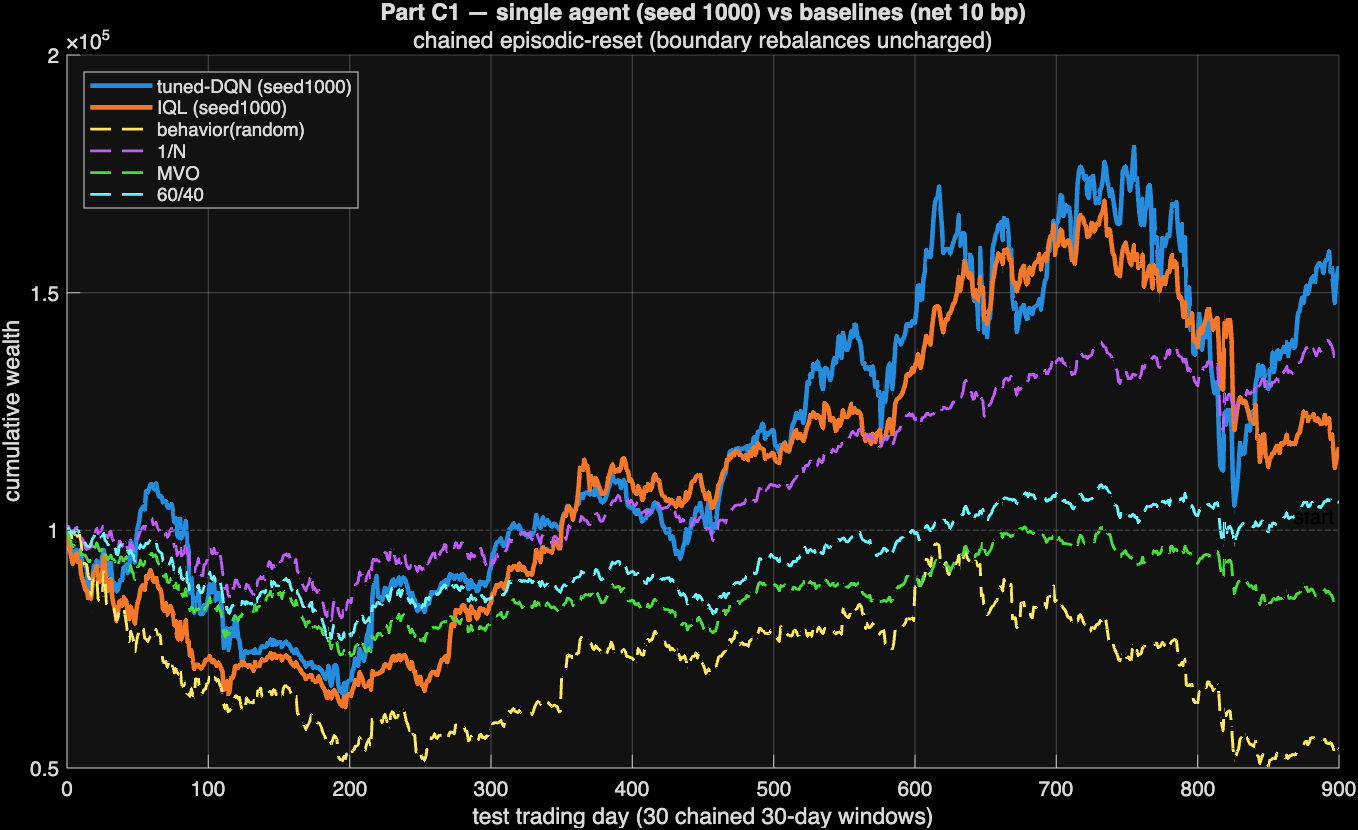
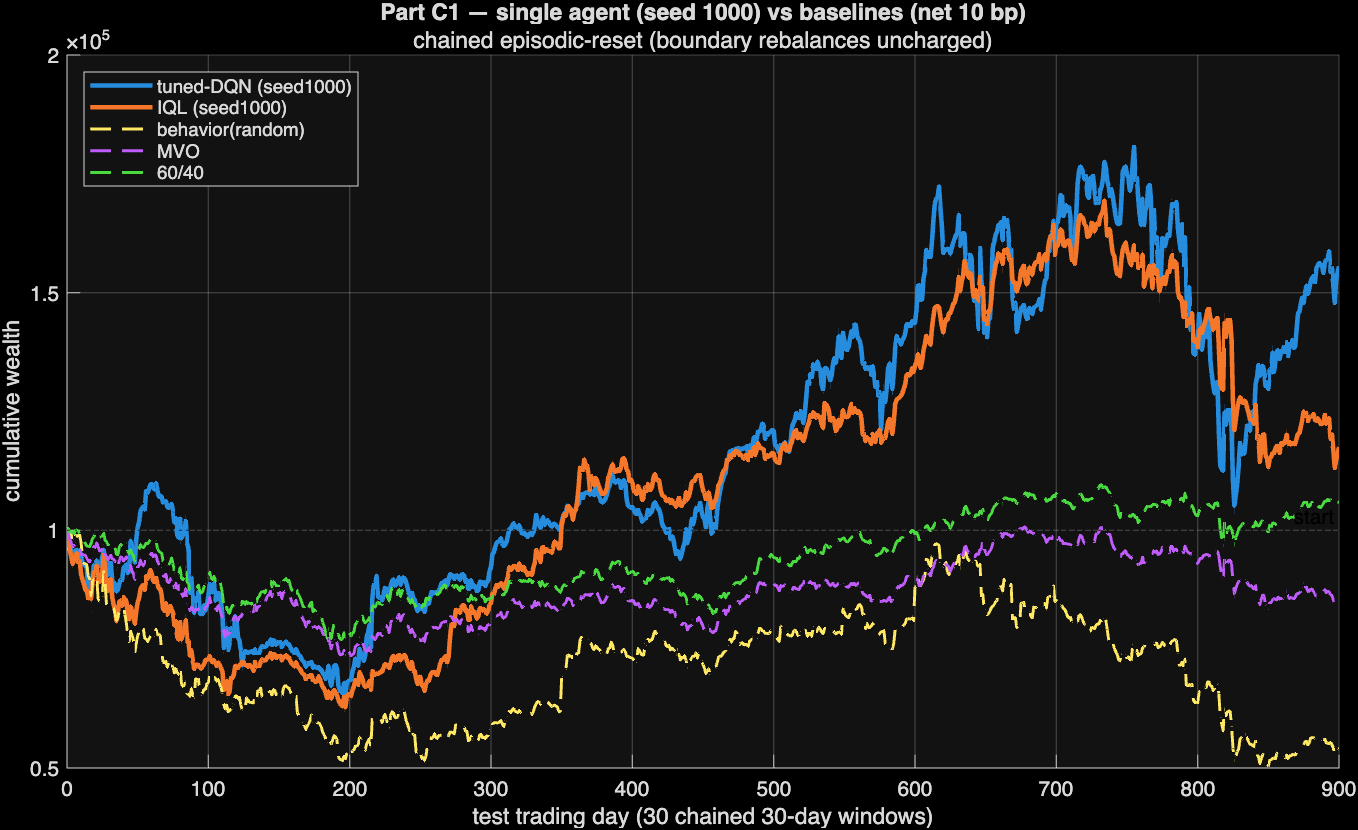
drop 1/N baseline

diff --git a/src/eval_compare.m b/src/eval_compare.m
@@ -181,7 +181,6 @@ end
 % shared baseline roster (seed-independent) — appears in both C1 and C2 for reference
 baseRoster = {
   'behavior(random)', @(o) Wf(:, randi(nA))
-  '1/N',              @(o) basis.w1N
   'MVO',              @(o) basis.wMVO
   '60/40',            @(o) basis.w6040
 };
@@ -247,7 +246,7 @@ end
 function plotEquity(curves, nm, basis, ttl, savePath)
     f = figure('Name',ttl,'Position',[100 100 1050 560]); hold on; grid on;
     n = numel(curves); cols = lines(n);
-    baseSet = {'behavior(random)','1/N','MVO','60/40'};
+    baseSet = {'behavior(random)','MVO','60/40'};
     for s = 1:n
         isB = any(strcmp(nm(s), baseSet));  lw = 2.2; ls = '-'; if isB; lw = 1.4; ls = '--'; end
         plot(0:numel(curves{s})-1, curves{s}, ls, 'Color',cols(s,:), 'LineWidth',lw, 'DisplayName',nm(s));

diff --git a/src/utils/buildEvalBasis.m b/src/utils/buildEvalBasis.m
@@ -47,12 +47,11 @@ function basis = buildEvalBasis(trainPrices, trainMacro, trainingRange, numActio
     isGold = ismember(upN, ["GLD","IAU"]);
     isEq   = ~isBond & ~isGold;
     w6040  = zeros(nAssets,1);  w6040(isEq) = 0.60/nnz(isEq);  w6040(isBond) = 0.40/nnz(isBond);
-    w1N    = ones(nAssets,1)/nAssets;
 
     % --- pack ---
     basis = struct();
     basis.W_frontier = W_frontier;  basis.wMVO = wMVO;
-    basis.w6040 = w6040;            basis.w1N  = w1N;
+    basis.w6040 = w6040;
     basis.macroMean = macroMean;    basis.macroStd = macroStd;
     basis.R_full = R_full;          basis.M_test_z = M_test_z;
     basis.assetNames = {assetNames};basis.nAssets = nAssets;

diff --git a/src/week10_actions_compare.m b/src/week10_actions_compare.m
@@ -27,7 +27,7 @@ for i = 1:3
 end
 fprintf("\nmean total return: 15-act %+.1f%% | 20-act %+.1f%%\n", 100*mean(r15), 100*mean(r20));
 fprintf("mean effective actions used: 15-act %.1f/15 | 20-act %.1f/20\n", mean(e15), mean(e20));
-fprintf("(baselines: 60/40 +5.9%% | 1/N +37.4%%)\n");
+fprintf("(baseline: 60/40 +5.9%%)\n");
 
 
 function [tr, effA] = evalAgent(FA, nEp, step, H, R_full, M_test_z, iw, gw, c)

diff --git a/docs/REPORT.md b/docs/REPORT.md
@@ -365,9 +365,9 @@ it hides path risk.
 > (`src/utils/buildEvalBasis.m:60`) — a **+2% hurdle over 30 days**.
 
 **Baselines.** *behavior-random* (the uniform-random frontier policy that generated the offline
-data — beating it is the canonical offline-RL success test); **1/N** equal-weight (DeMiguel,
-Garlappi & Uppal 2009, "hard to beat"); **MVO** = max-Sharpe tangency **fit on train, not
-re-estimated on test**; **60/40** daily constant mix.
+data — beating it is the canonical offline-RL success test); **MVO** = max-Sharpe tangency
+**fit on train, not re-estimated on test**; **60/40** daily constant mix, the passive reference
+this report is measured against.
 
 ### C1 — single shipped agent (seed 1000)
 
@@ -375,19 +375,20 @@ re-estimated on test**; **60/40** daily constant mix.
 |---|---|---|---|---|---|---|---|
 | tuned-DQN (seed 1000) | 0.38 | **[−0.56, 1.61]** | 0.07 | +55.5% | 18.6% | 91567 | 15 |
 | IQL (seed 1000) | 0.19 | **[−0.66, 1.42]** | 0.03 | +17.5% | 13.3% | 90931 | 12 |
-| **1/N** | **0.62** | [−0.30, 1.71] | 0.15 | +37.4% | 10.3% | **95855** | 19 |
-| 60/40 | 0.13 | [−0.93, 1.23] | 0.03 | +5.9% | **8.7%** | 95302 | 12 |
+| 60/40 | 0.13 | [−0.93, 1.23] | 0.03 | +5.9% | **8.7%** | **95302** | 12 |
 | MVO (train-fit tangency) | −0.32 | [−1.22, 0.90] | 0.00 | −14.0% | 9.3% | 93661 | 8 |
 | behavior-random | −0.64 | [−1.56, 0.56] | 0.00 | −45.9% | 17.0% | 86345 | 11 |
 
 ![Part C1 single-seed equity](../experiments/figures/eval_partC1_single_equity.png)
 
-**Read it correctly.** The tuned-DQN's headline **+55.5% total return is *not* an edge**: on the
+**Read it correctly.** The tuned-DQN's headline **+55.5% total return is *not* an edge**. On the
 like-for-like metric — chained Sharpe, which prices return and risk on the *same* path — it
-scores **0.38, below naïve 1/N's 0.62**, so it is *less* risk-efficient, not more. (Its
-per-window MaxDD P90 is also the table's worst, 18.6% vs 1/N's 10.3%; that is the other column
-scope, but it points the same way.)
-Its CI includes 0; its DSR (0.07) survives no multiple-testing haircut. **Seed 1000 is the
+scores 0.38 against 60/40's 0.13, but that gap is **not resolvable**: its CI [−0.56, 1.61]
+contains 60/40's point estimate as comfortably as it contains zero, so the two are
+statistically indistinguishable on this sample. What the nominal lead *does* cost is legible:
+its per-window MaxDD P90 is the table's worst (18.6% vs 60/40's 8.7%) and its Term P10 the
+worst of any non-random row — i.e. it is paid for in risk, in a column where the CI is not
+doing the arguing. Its DSR (0.07) survives no multiple-testing haircut. **Seed 1000 is the
 default first seed used a-priori throughout the project, and it also happens to be the strongest
 single path on this test set** — so it must not carry the argument. The load-bearing comparison
 is the unbiased ensemble below.
@@ -398,15 +399,15 @@ is the unbiased ensemble below.
 |---|---|---|---|---|---|---|
 | tuned-DQN (N=10) | 0.12 | [−0.68, 1.37] | 0.02 | +12.4% | 15.4% | 91931 |
 | IQL (N=10) | −0.31 | [−0.99, 0.90] | 0.00 | −24.8% | 16.0% | 92132 |
-| **1/N** | **0.62** | [−0.30, 1.71] | 0.15 | +37.4% | 10.3% | **95855** |
-| 60/40 | 0.13 | [−0.93, 1.23] | 0.03 | +5.9% | **8.7%** | 95302 |
+| 60/40 | 0.13 | [−0.93, 1.23] | 0.03 | +5.9% | **8.7%** | **95302** |
 | MVO (train-fit tangency) | −0.32 | [−1.22, 0.90] | 0.00 | −14.0% | 9.3% | 93661 |
 | behavior-random | −0.64 | [−1.56, 0.56] | 0.00 | −45.9% | 17.0% | 86345 |
 
 ![Part C2 ensemble equity](../experiments/figures/eval_partC2_ensemble_equity.png)
 
-The ensemble removes the single-seed luck: **tuned-DQN ties 60/40 (0.12 vs 0.13) and loses to
-1/N**; IQL's ensemble is negative on this path. The ensemble's total return is also **sensitive
+The ensemble removes the single-seed luck: **tuned-DQN ties 60/40 (0.12 vs 0.13)** — the
+0.38 → 0.12 drop between C1 and C2 is the seed-selection premium, measured — and IQL's ensemble
+is negative on this path. The ensemble's total return is also **sensitive
 to N** (an earlier sweep gave materially different, even negative, totals at N=5 and N=20), so
 "+12.4%" is one pick, not a robust number.
 
@@ -565,8 +566,6 @@ are intentionally superseded by the `eval_part*` figures.)
   on Neural Networks* 12(4): 875–889. (See also Moody, Wu, Liao & Saffell, 1998, *J. Forecasting*.)
 - Kahneman, D., & Tversky, A. (1979). Prospect Theory: An Analysis of Decision under Risk.
   *Econometrica* 47(2): 263–291.
-- DeMiguel, V., Garlappi, L., & Uppal, R. (2009). Optimal Versus Naive Diversification: How
-  Inefficient Is the 1/N Portfolio Strategy? *Review of Financial Studies* 22(5): 1915–1953.
 - Bailey, D. H., & López de Prado, M. (2014). The Deflated Sharpe Ratio: Correcting for Selection
   Bias, Backtest Overfitting, and Non-Normality. *Journal of Portfolio Management* 40(5): 94–107.
 - Künsch, H. R. (1989). The Jackknife and the Bootstrap for General Stationary Observations.

diff --git a/README.md b/README.md
@@ -26,8 +26,8 @@ moving-block bootstrap (block = the 30-day horizon).
 ### Performance vs baselines
 
 Baselines: **behavior-random** (the uniform-random frontier policy that generated the offline
-data — beating it is the canonical offline-RL success test), **1/N** equal-weight, **MVO**
-(max-Sharpe tangency fit on train, not re-estimated on test), and **60/40** daily constant mix.
+data — beating it is the canonical offline-RL success test), **MVO** (max-Sharpe tangency fit
+on train, not re-estimated on test), and **60/40** daily constant mix.
 
 **C1 — the single shipped agent (seed 1000)**
 
@@ -35,8 +35,7 @@ data — beating it is the canonical offline-RL success test), **1/N** equal-wei
 |---|---|---|---|---|---|---|---|
 | tuned-DQN (seed 1000) | 0.38 | [−0.56, 1.61] | 0.07 | **+55.5%** | 18.6% | 91567 | 15 |
 | IQL (seed 1000) | 0.19 | [−0.66, 1.42] | 0.03 | +17.5% | 13.3% | 90931 | 12 |
-| **1/N** | **0.62** | [−0.30, 1.71] | 0.15 | +37.4% | 10.3% | **95855** | 19 |
-| 60/40 | 0.13 | [−0.93, 1.23] | 0.03 | +5.9% | **8.7%** | 95302 | 12 |
+| 60/40 | 0.13 | [−0.93, 1.23] | 0.03 | +5.9% | **8.7%** | **95302** | 12 |
 | MVO (train-fit tangency) | −0.32 | [−1.22, 0.90] | 0.00 | −14.0% | 9.3% | 93661 | 8 |
 | behavior-random | −0.64 | [−1.56, 0.56] | 0.00 | −45.9% | 17.0% | 86345 | 11 |
 
@@ -48,8 +47,7 @@ data — beating it is the canonical offline-RL success test), **1/N** equal-wei
 |---|---|---|---|---|---|---|
 | tuned-DQN (N=10) | 0.12 | [−0.68, 1.37] | 0.02 | +12.4% | 15.4% | 91931 |
 | IQL (N=10) | −0.31 | [−0.99, 0.90] | 0.00 | −24.8% | 16.0% | 92132 |
-| **1/N** | **0.62** | [−0.30, 1.71] | 0.15 | +37.4% | 10.3% | **95855** |
-| 60/40 | 0.13 | [−0.93, 1.23] | 0.03 | +5.9% | **8.7%** | 95302 |
+| 60/40 | 0.13 | [−0.93, 1.23] | 0.03 | +5.9% | **8.7%** | **95302** |
 | MVO (train-fit tangency) | −0.32 | [−1.22, 0.90] | 0.00 | −14.0% | 9.3% | 93661 |
 | behavior-random | −0.64 | [−1.56, 0.56] | 0.00 | −45.9% | 17.0% | 86345 |
 
@@ -63,13 +61,16 @@ per-window (wealth resets each window, goal = +2%).*
 - **Offline learning did work.** Every configuration beats **behavior-random** — the policy
   that generated its own training data — by +0.33 to +1.02 Sharpe. That is the canonical
   offline-RL success test, and all four agents pass it.
-- **It did not beat the naive baselines.** +55.5% is not an edge: that seed's Sharpe (0.38) is
-  below 1/N's (0.62). The N=10 ensemble ties 60/40 and loses to 1/N.
+- **The nominal lead is inside the noise.** Seed 1000 posts the table's top Sharpe (0.38), but
+  its CI [−0.56, 1.61] contains 60/40's 0.13 as comfortably as it contains zero, and the N=10
+  ensemble (0.12) is a dead heat with 60/40 (0.13). What that lead costs is legible in a column
+  the CI is not arguing over: 18.6% MaxDD P90 against 60/40's 8.7%, and the worst Term P10 of
+  any non-random row.
 - **Every CI includes zero** — including the margin over behavior-random. ~900 autocorrelated
   days in one regime separates nothing.
-- **Nothing survives the multiple-testing haircut** — DSR peaks at 0.15 (1/N); every agent is
-  ≤ 0.07. **No claim is made to beat a passive baseline**
-  ([Limitations](docs/REPORT.md#5-honest-limitations--conclusion)).
+- **Nothing survives the multiple-testing haircut** — the best Deflated Sharpe in either table
+  is 0.07, against the ~40 configurations examined across weeks 4–10. **No claim is made to beat
+  a passive baseline** ([Limitations](docs/REPORT.md#5-honest-limitations--conclusion)).
 
 ### The core finding — Q-value divergence, and the fix
 
@@ -131,7 +132,7 @@ flowchart TD
 
   subgraph C ["Part C — evaluation (§4)"]
     C1["cost-aware chained backtest<br/>net 10 bp"]
-    C1 --> C2["vs 1/N · 60/40 · MVO ·<br/>behavior-random"]
+    C1 --> C2["vs 60/40 · MVO ·<br/>behavior-random"]
     C2 --> C3["block-bootstrap CI + DSR"]
   end
 
